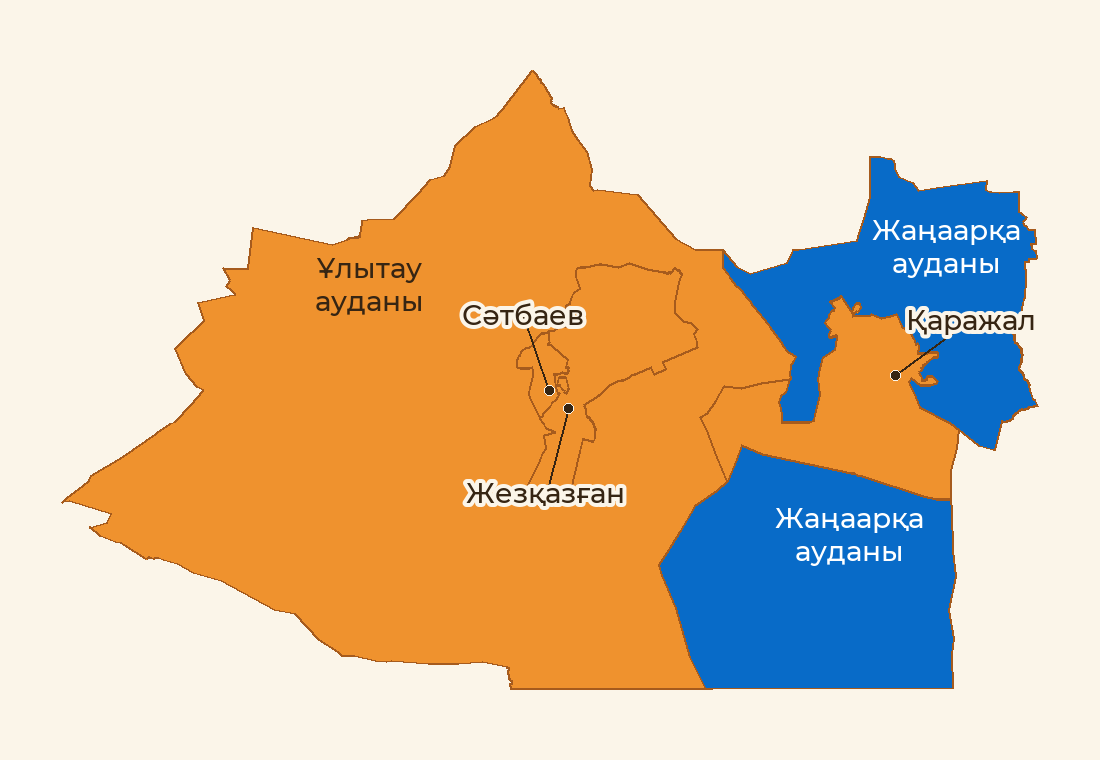
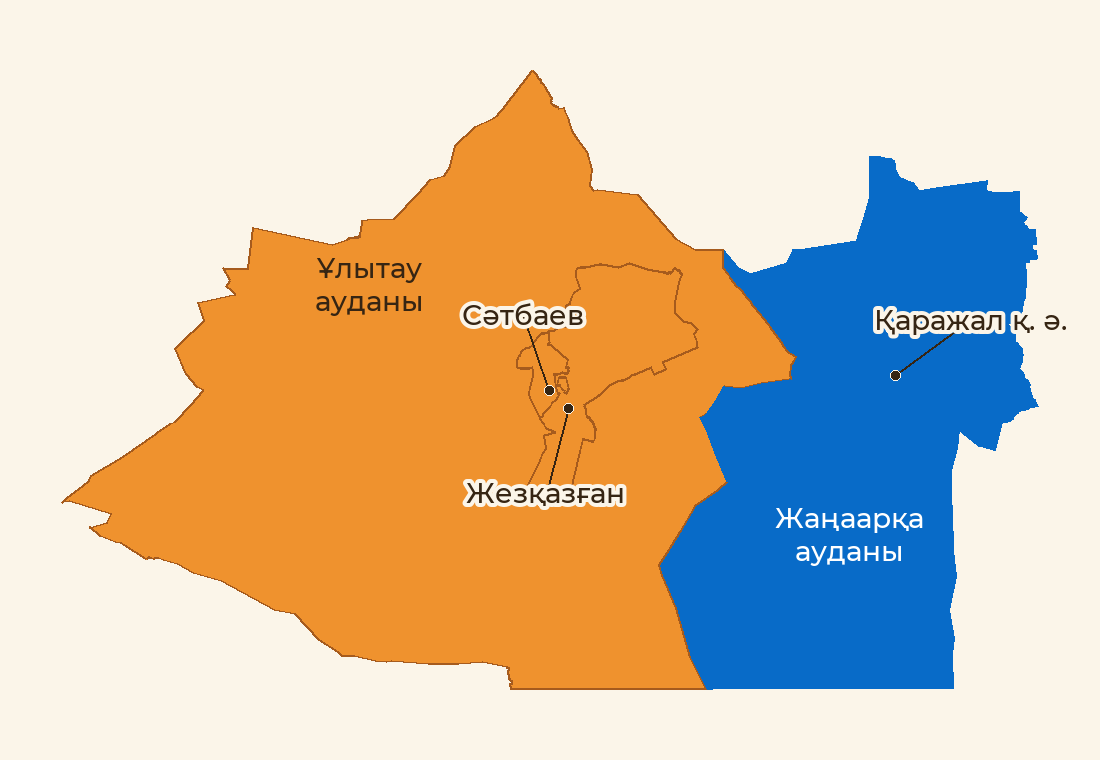
Use a continuous highlight and mark Karazhal on the Zhanaarka map

Changed region(s): [[0.6182, 0.3934, 0.9582, 0.6658], [0.7727, 0.2421, 0.9273, 0.3632]]

diff --git a/assets/ulytau-schools.js b/assets/ulytau-schools.js
@@ -267,7 +267,7 @@ window.ULYTAU_SCHOOLS = {
         "kk": "Мекенжайы: Жаңаарқа ауданы, Жаңаарқа кенті, Байдалы би көшесі, 11/2",
         "ru": "Адрес: Жанааркинский район, пос. Жанаарка, ул. Байдалы би, 11/2"
       },
-      "mapImage": "assets/ulytau-maps/zhanaarka.png?v=3"
+      "mapImage": "assets/ulytau-maps/zhanaarka.png?v=4"
     },
     {
       "id": "ulytau-zhanaarka-11",
@@ -292,7 +292,7 @@ window.ULYTAU_SCHOOLS = {
         "kk": "Мекенжайы: Жаңаарқа ауданы, Жаңаарқа кенті, А. Оспанова көшесі, 36",
         "ru": "Адрес: Жанааркинский район, пос. Жанаарка, ул. А. Оспановой, 36"
       },
-      "mapImage": "assets/ulytau-maps/zhanaarka.png?v=3"
+      "mapImage": "assets/ulytau-maps/zhanaarka.png?v=4"
     },
     {
       "id": "ulytau-zhanaarka-12",
@@ -321,7 +321,7 @@ window.ULYTAU_SCHOOLS = {
         "kk": "Мекенжайы: Жаңаарқа ауданы, Қызылжар кенті, Қ. Байдәулетов көшесі, 1",
         "ru": "Адрес: Жанааркинский район, пос. Кызылжар, ул. К. Байдаулетова, 1"
       },
-      "mapImage": "assets/ulytau-maps/zhanaarka.png?v=3"
+      "mapImage": "assets/ulytau-maps/zhanaarka.png?v=4"
     },
     {
       "id": "ulytau-zhanaarka-13",
@@ -338,7 +338,7 @@ window.ULYTAU_SCHOOLS = {
         "kk": "Мекенжайы: Жаңаарқа ауданы, Жаңаарқа кенті, Абай көшесі, 35/1",
         "ru": "Адрес: Жанааркинский район, пос. Жанаарка, ул. Абая, 35/1"
       },
-      "mapImage": "assets/ulytau-maps/zhanaarka.png?v=3"
+      "mapImage": "assets/ulytau-maps/zhanaarka.png?v=4"
     },
     {
       "id": "ulytau-zhanaarka-14",
@@ -355,7 +355,7 @@ window.ULYTAU_SCHOOLS = {
         "kk": "Мекенжайы: Жаңаарқа ауданы, Түгіскен ауылы, Ыдырыс Жұмабеков көшесі, 18",
         "ru": "Адрес: Жанааркинский район, с. Тугискен, ул. Ыдырыса Жумабекова, 18"
       },
-      "mapImage": "assets/ulytau-maps/zhanaarka.png?v=3"
+      "mapImage": "assets/ulytau-maps/zhanaarka.png?v=4"
     },
     {
       "id": "ulytau-zhanaarka-15",
@@ -379,7 +379,7 @@ window.ULYTAU_SCHOOLS = {
         "kk": "Мекенжайы: Жаңаарқа ауданы, Ынталы ауылы, Бірлік көшесі, 13",
         "ru": "Адрес: Жанааркинский район, с. Инталы, ул. Бірлік, 13"
       },
-      "mapImage": "assets/ulytau-maps/zhanaarka.png?v=3"
+      "mapImage": "assets/ulytau-maps/zhanaarka.png?v=4"
     },
     {
       "id": "ulytau-zhanaarka-16",
@@ -396,7 +396,7 @@ window.ULYTAU_SCHOOLS = {
         "kk": "Мекенжайы: Жаңаарқа ауданы, Атасу ауылы, С. Сейфуллин көшесі, 1",
         "ru": "Адрес: Жанааркинский район, с. Атасу, ул. С. Сейфуллина, 1"
       },
-      "mapImage": "assets/ulytau-maps/zhanaarka.png?v=3"
+      "mapImage": "assets/ulytau-maps/zhanaarka.png?v=4"
     },
     {
       "id": "ulytau-zhanaarka-17",
@@ -425,7 +425,7 @@ window.ULYTAU_SCHOOLS = {
         "kk": "Мекенжайы: Жаңаарқа ауданы, Ералиев ауылы, Мектеп көшесі, 13",
         "ru": "Адрес: Жанааркинский район, с. Ералиев, ул. Мектеп, 13"
       },
-      "mapImage": "assets/ulytau-maps/zhanaarka.png?v=3"
+      "mapImage": "assets/ulytau-maps/zhanaarka.png?v=4"
     },
     {
       "id": "ulytau-zhanaarka-18",
@@ -442,7 +442,7 @@ window.ULYTAU_SCHOOLS = {
         "kk": "Мекенжайы: Жаңаарқа ауданы, Мұқажан Жұмажанов ауылы, Сәкен Сейфуллин көшесі, 23",
         "ru": "Адрес: Жанааркинский район, с. Мукажана Жумажанова, ул. Сакена Сейфуллина, 23"
       },
-      "mapImage": "assets/ulytau-maps/zhanaarka.png?v=3"
+      "mapImage": "assets/ulytau-maps/zhanaarka.png?v=4"
     },
     {
       "id": "ulytau-zhanaarka-19",
@@ -467,7 +467,7 @@ window.ULYTAU_SCHOOLS = {
         "kk": "Мекенжайы: Жаңаарқа ауданы, Талдыбұлақ ауылы, Тәуелсіздік көшесі, 2",
         "ru": "Адрес: Жанааркинский район, с. Талдыбулак, ул. Тәуелсіздік, 2"
       },
-      "mapImage": "assets/ulytau-maps/zhanaarka.png?v=3"
+      "mapImage": "assets/ulytau-maps/zhanaarka.png?v=4"
     },
     {
       "id": "ulytau-ulytau-20",

diff --git a/school.html b/school.html
@@ -155,7 +155,7 @@
 <script src="assets/zhambyl-schools.js?v=2"></script>
 <script src="assets/vko-schools.js?v=1"></script>
 <script src="assets/turkistan-schools.js?v=2"></script>
-<script src="assets/ulytau-schools.js?v=4"></script>
+<script src="assets/ulytau-schools.js?v=5"></script>
 <script src="assets/school-addresses.js?v=1"></script>
 <script src="school.js?v=101"></script>
 </body>

diff --git a/admin.html b/admin.html
@@ -581,7 +581,7 @@
 <script src="assets/zhambyl-schools.js?v=2"></script>
 <script src="assets/vko-schools.js?v=1"></script>
 <script src="assets/turkistan-schools.js?v=2"></script>
-<script src="assets/ulytau-schools.js?v=4"></script>
+<script src="assets/ulytau-schools.js?v=5"></script>
 <script src="admin-schools.js?v=19"></script>
 <script src="admin-regions.js?v=2"></script>
 </body>

diff --git a/index.html b/index.html
@@ -213,7 +213,7 @@
 <script src="assets/zhambyl-schools.js?v=2"></script>
 <script src="assets/vko-schools.js?v=1"></script>
 <script src="assets/turkistan-schools.js?v=2"></script>
-<script src="assets/ulytau-schools.js?v=4"></script>
+<script src="assets/ulytau-schools.js?v=5"></script>
 <script src="map.js?v=ulytau-1"></script>
 <script src="results.js?v=3"></script>
 

diff --git a/regions.html b/regions.html
@@ -145,7 +145,7 @@
 <script src="assets/zhambyl-schools.js?v=2"></script>
 <script src="assets/vko-schools.js?v=1"></script>
 <script src="assets/turkistan-schools.js?v=2"></script>
-<script src="assets/ulytau-schools.js?v=4"></script>
+<script src="assets/ulytau-schools.js?v=5"></script>
 <script src="map.js?v=ulytau-1"></script>
 </body>
 </html>
